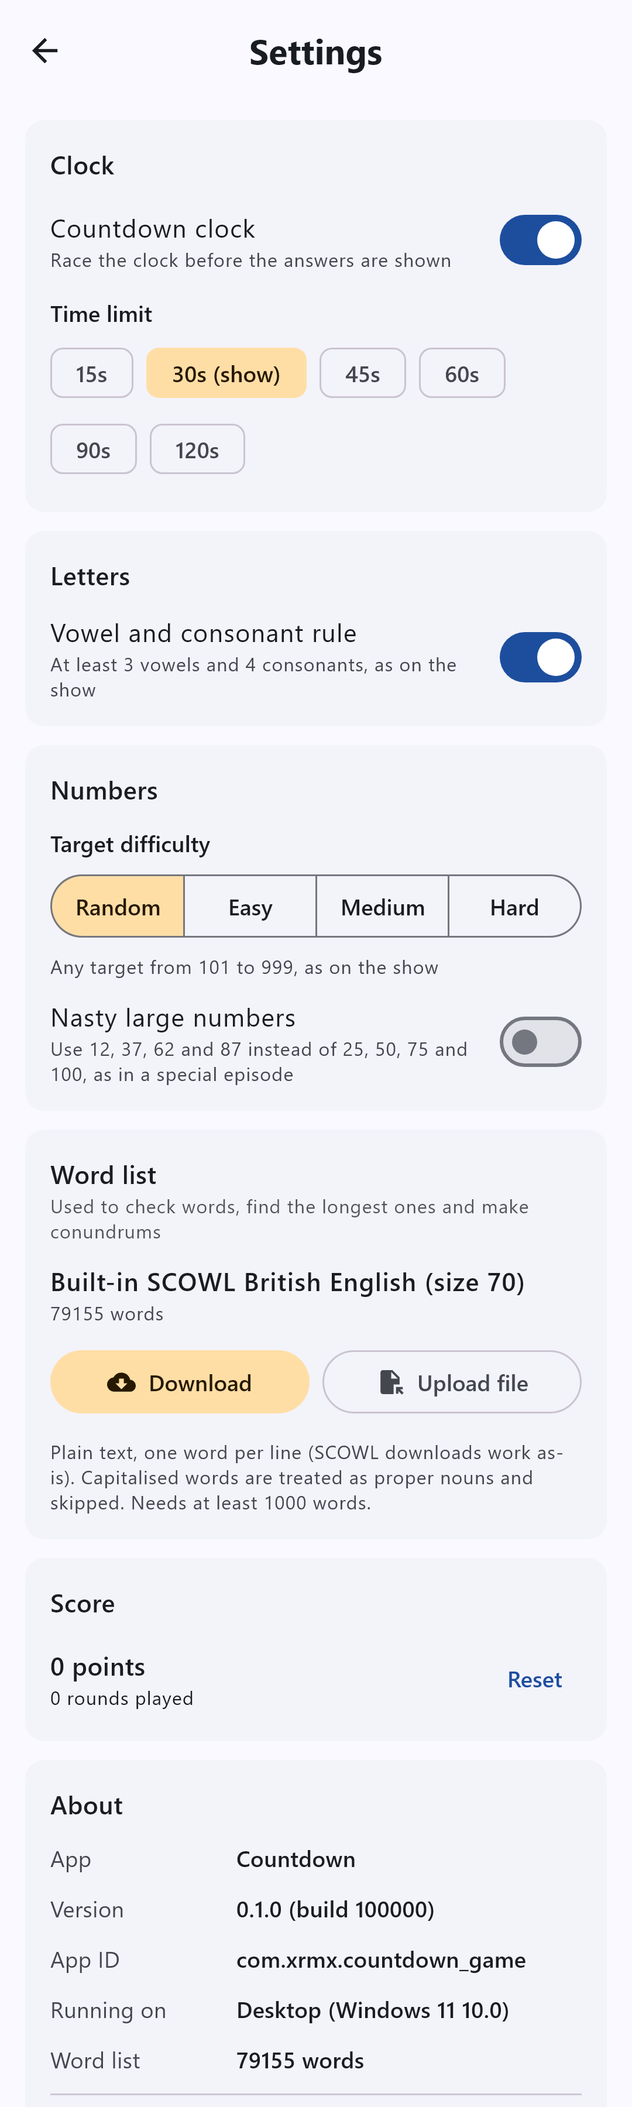
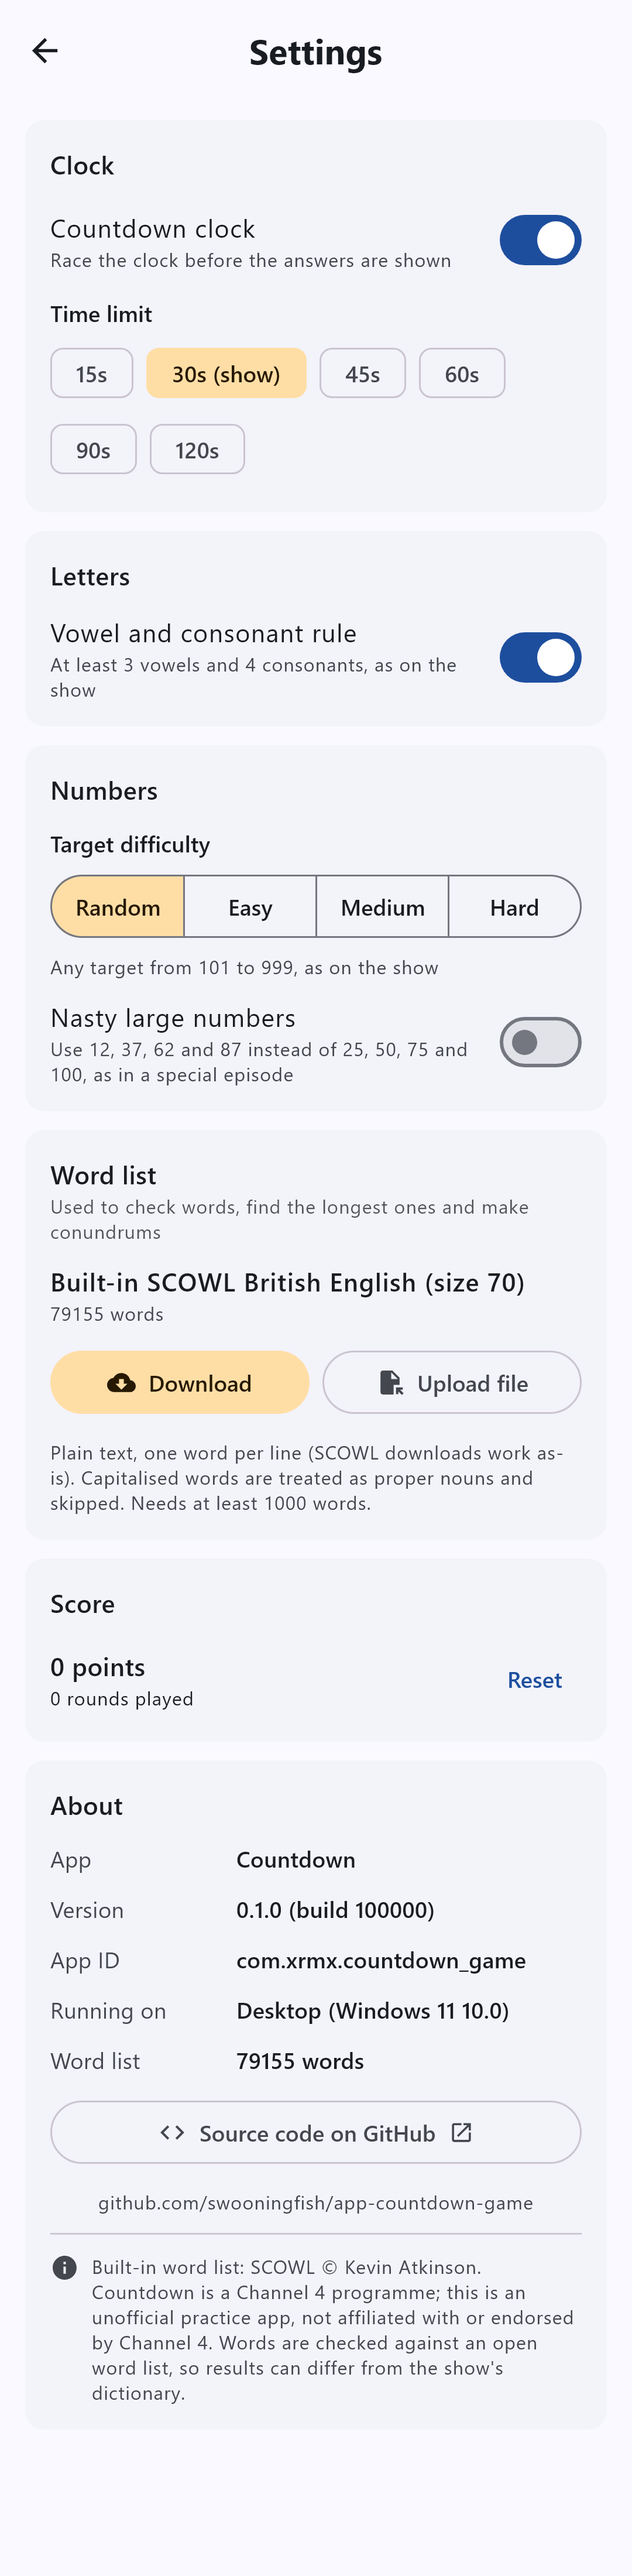
Add GitHub source link to the About section

diff --git a/composeApp/src/commonMain/kotlin/com/xrmx/countdown_game/ui/SettingsScreen.kt b/composeApp/src/commonMain/kotlin/com/xrmx/countdown_game/ui/SettingsScreen.kt
@@ -12,7 +12,9 @@ import androidx.compose.foundation.layout.size
 import androidx.compose.foundation.layout.width
 import androidx.compose.foundation.text.KeyboardOptions
 import androidx.compose.material.icons.Icons
+import androidx.compose.material.icons.automirrored.filled.OpenInNew
 import androidx.compose.material.icons.filled.CloudDownload
+import androidx.compose.material.icons.filled.Code
 import androidx.compose.material.icons.filled.ErrorOutline
 import androidx.compose.material.icons.filled.FileOpen
 import androidx.compose.material.icons.filled.Info
@@ -42,6 +44,7 @@ import androidx.compose.runtime.rememberCoroutineScope
 import androidx.compose.runtime.setValue
 import androidx.compose.ui.Alignment
 import androidx.compose.ui.Modifier
+import androidx.compose.ui.platform.LocalUriHandler
 import androidx.compose.ui.text.font.FontWeight
 import androidx.compose.ui.text.input.KeyboardType
 import androidx.compose.ui.unit.dp
@@ -215,6 +218,23 @@ fun SettingsScreen(
             DetailRow("App ID", platformAppId())
             DetailRow("Running on", platformDescription())
             DetailRow("Word list", wordList?.let { "${it.wordCount} words" } ?: "Loading…")
+            val uriHandler = LocalUriHandler.current
+            OutlinedButton(
+                onClick = { runCatching { uriHandler.openUri(AppInfo.SOURCE_URL) } },
+                modifier = Modifier.fillMaxWidth(),
+            ) {
+                Icon(Icons.Filled.Code, null, Modifier.size(ButtonDefaults.IconSize))
+                Spacer(Modifier.width(ButtonDefaults.IconSpacing))
+                Text("Source code on GitHub")
+                Spacer(Modifier.width(ButtonDefaults.IconSpacing))
+                Icon(Icons.AutoMirrored.Filled.OpenInNew, contentDescription = "Opens in your browser", modifier = Modifier.size(16.dp))
+            }
+            Text(
+                AppInfo.SOURCE_URL.removePrefix("https://"),
+                style = MaterialTheme.typography.bodySmall,
+                color = MaterialTheme.colorScheme.onSurfaceVariant,
+                modifier = Modifier.align(Alignment.CenterHorizontally),
+            )
             HorizontalDivider()
             Row(horizontalArrangement = Arrangement.spacedBy(8.dp)) {
                 Icon(Icons.Filled.Info, null, Modifier.size(18.dp), tint = MaterialTheme.colorScheme.onSurfaceVariant)

diff --git a/composeApp/src/desktopTest/kotlin/com/xrmx/countdown_game/Screenshots.kt b/composeApp/src/desktopTest/kotlin/com/xrmx/countdown_game/Screenshots.kt
@@ -75,7 +75,7 @@ fun main(args: Array<String>) {
         tab = Tab.Conundrum
         conundrum.start(ConundrumGenerator(dictionary, Random(7)), clockSeconds = 30, startedAt = startedSecondsAgo(8))
     }
-    shot("settings", height = 3600) {
+    shot("settings", height = 4400) {
         showSettings = true
     }
 }
